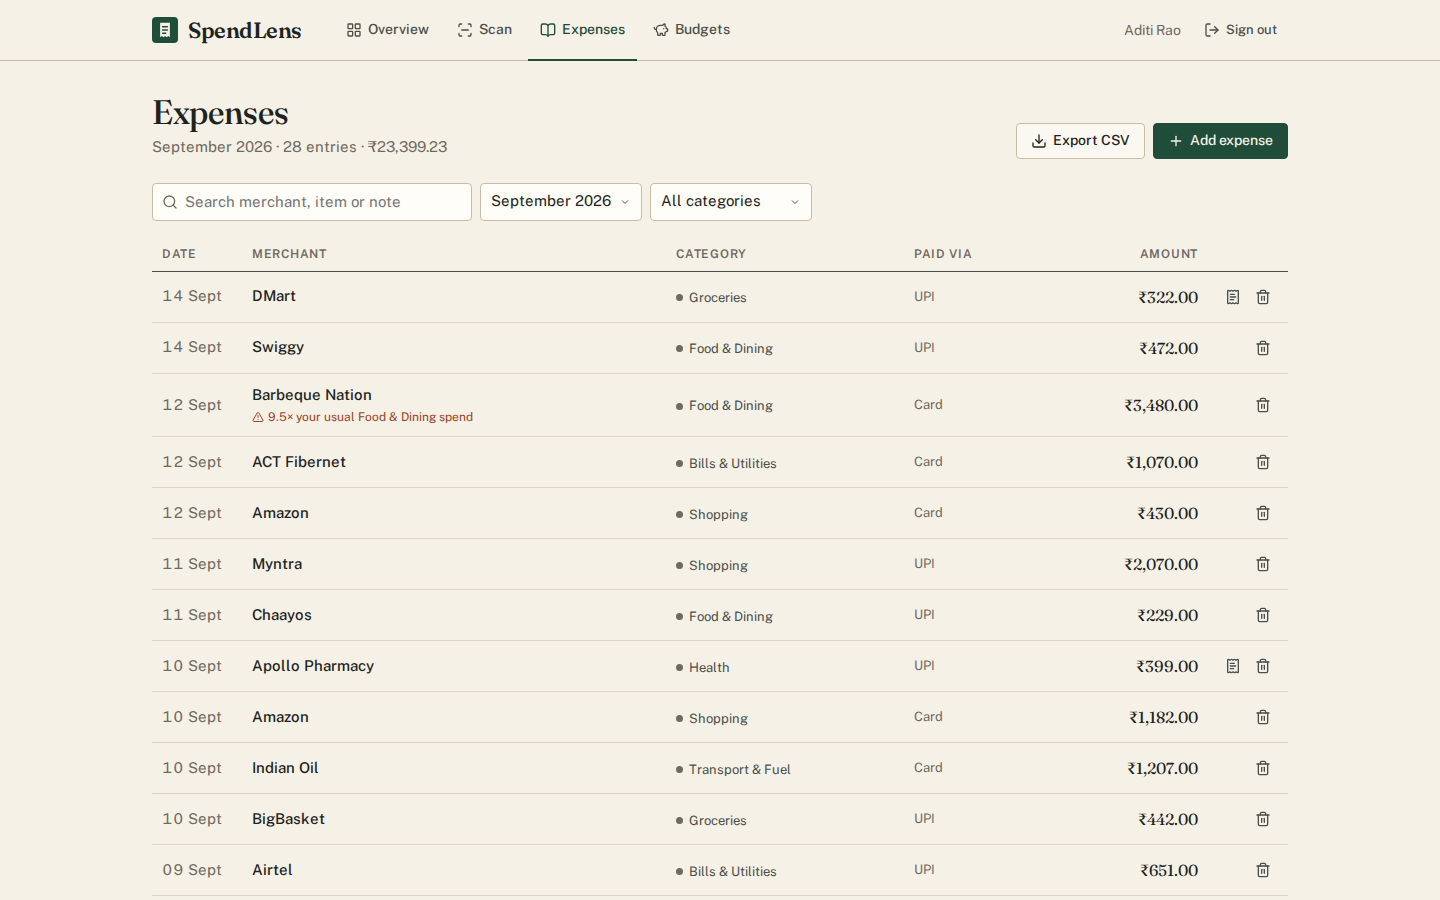
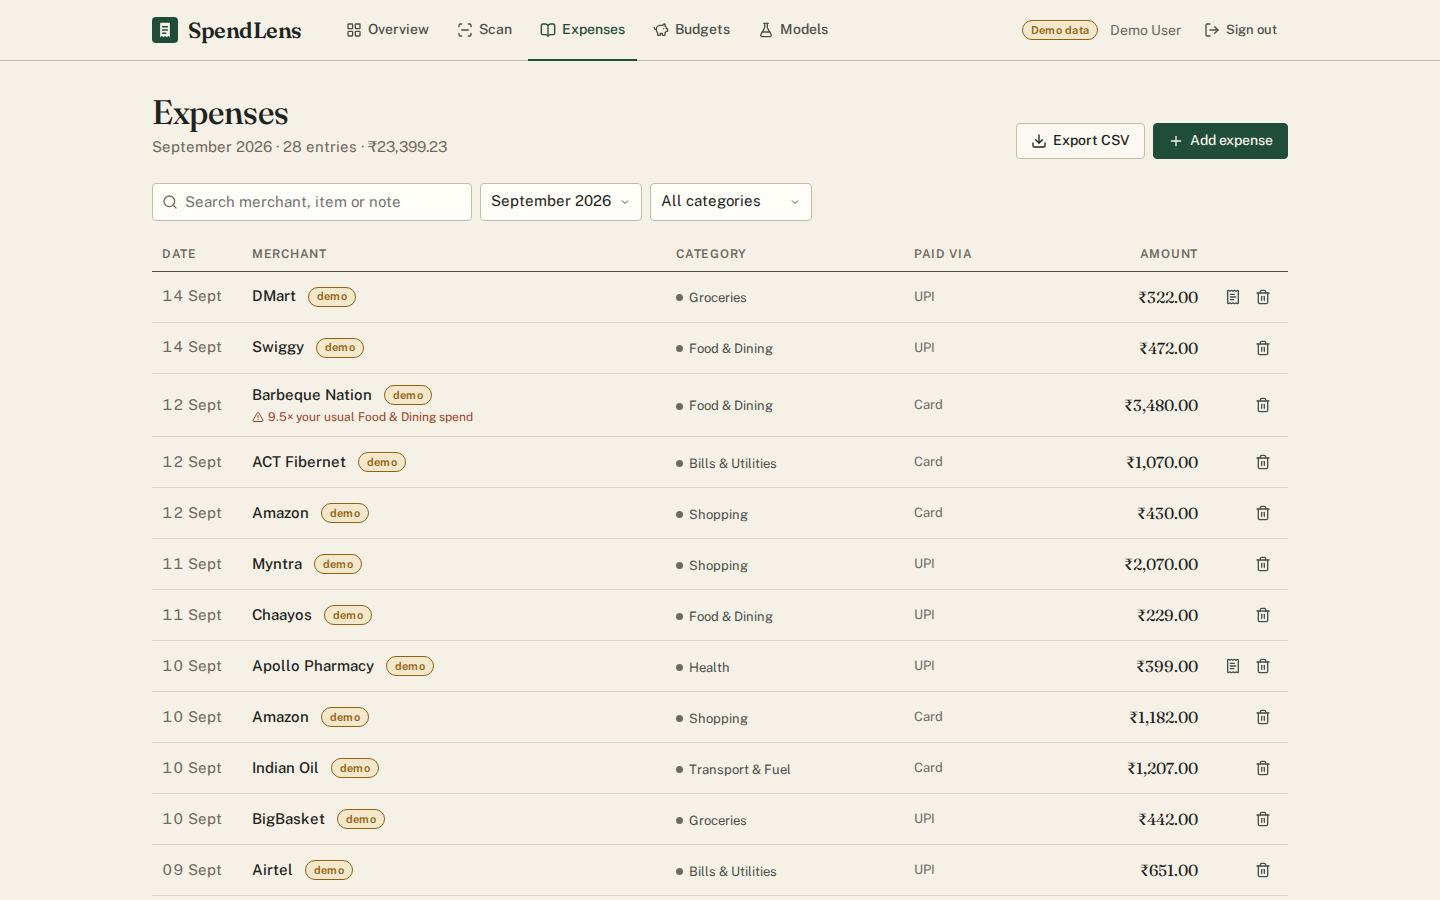
Make OCR word boxes visible and regenerate screenshots
Claude-Session: https://claude.ai/code/session_01BHhQZHNcETE7agkVjLaJvL

diff --git a/frontend/src/styles.css b/frontend/src/styles.css
@@ -386,8 +386,8 @@ dialog.confirm { max-width: min(420px, 92vw); }
 .ocr-overlay { margin: 0; }
 .ocr-canvas { position: relative; width: 100%; max-height: 72vh; background: #fff; border: 1px solid var(--rule-strong); }
 .ocr-canvas img, .ocr-canvas svg { position: absolute; inset: 0; width: 100%; height: 100%; }
-.ocr-canvas .box { fill: rgba(42, 106, 76, .08); stroke: var(--green-ink); stroke-width: .0012; vector-effect: non-scaling-stroke; }
-.ocr-canvas .box.low { fill: rgba(176, 78, 44, .18); stroke: var(--terra); }
+.ocr-canvas .box { fill: rgba(42, 106, 76, .10); stroke: var(--green-ink); stroke-width: 1px; vector-effect: non-scaling-stroke; }
+.ocr-canvas .box.low { fill: rgba(176, 78, 44, .28); stroke: var(--terra); stroke-width: 1.5px; }
 .ocr-overlay figcaption { margin-top: 6px; }
 
 .facts { display: grid; grid-template-columns: 140px 1fr; gap: 6px 16px; margin: 0; font-size: 14px; }
